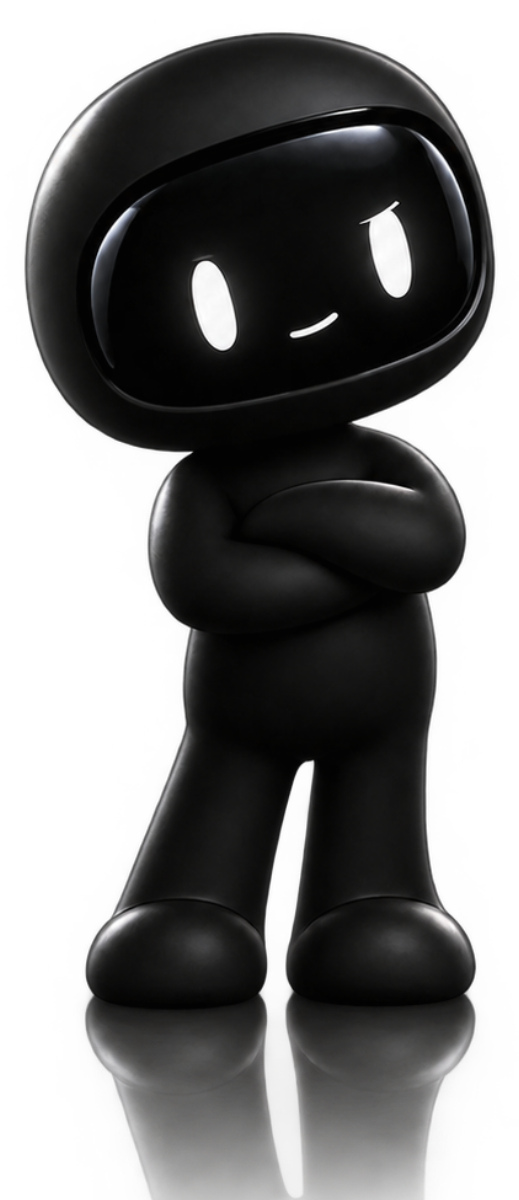
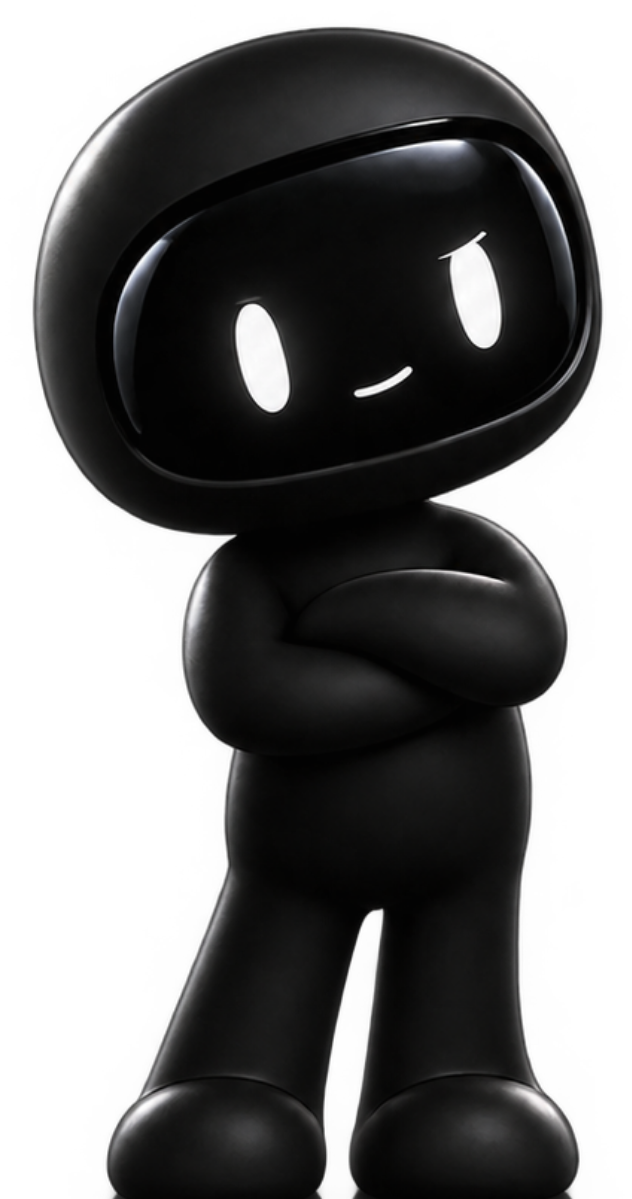
Actually cut the reflections - four of six still had a stub
The last commit claimed to have removed them and removed them from one. Four
of the six shipped with a pale stub under the feet, which is what Brandon
was pointing at when he asked about "all the other ones" - it is clearest on
the slumped pose at the psychology section.

The detection was backwards. "Last row containing a bright pixel" sounds
right, because the body carries specular highlights and a reflection is
dimmer - but the brightest thing in these renders is the reflection DIRECTLY
under his feet, the specular hit on the glossy floor. So the search sailed
past his feet and stopped at the bottom of the reflection, keeping the
brightest part of the thing it was meant to remove.

What works is the opposite: scan mean brightness down the lower half and
take the DARKEST row. The contact point is a shadow line, so it is a clean
minimum with the body above and the reflection brightening away below - on
the slump render, brightness bottoms out at y941 and climbs to 224 beneath
it. Verified by eye across all six afterwards rather than trusted twice.

The original idle render is the exception and keeps its earlier crop: its
reflection is opaque black rather than bright, so there is no minimum to
find, and it was the one that never had a stub.

Every scale recomputed against the new canvases, and both clip fractions
with them - the leaning arm moves to 53.1% and the crossed arms to 56.8%,
because cutting real height off the bottom changes where everything sits as
[…]

diff --git a/src/pages/Sales.tsx b/src/pages/Sales.tsx
@@ -719,10 +719,10 @@ export default function Sales() {
               <div
                 aria-hidden="true"
                 className="pointer-events-none absolute right-3 sm:right-5 overflow-hidden
-                  -top-[86px] h-[86px] sm:-top-[112px] sm:h-[112px]"
+                  -top-[84px] h-[84px] sm:-top-[110px] sm:h-[110px]"
               >
                 {/*
-                  The window is 47.8% of his height, which is where the
+                  The window is 56.8% of his height, which is where the
                   underside of his crossed arms sits - so the card's edge
                   lands under the arms rather than through them. It shows his
                   head AND his crossed arms, which is
@@ -875,8 +875,8 @@ export default function Sales() {
             objection: he is behind the edge rather than pasted over it.
 
             The window height is not a look-right guess - it is measured. The
-            underside of his propped arm sits at 46.5% of his height in the
-            render, so the window is 46.5% of whatever height he is given,
+            underside of his propped arm sits at 53.1% of his height in the
+            render, so the window is 53.1% of whatever height he is given,
             which puts the card's edge exactly where his arm comes down. Cut
             lower and the arm rests on nothing, which is what a taller window
             did here and what Brandon spotted immediately.
@@ -885,7 +885,7 @@ export default function Sales() {
             <div
               aria-hidden="true"
               className="pointer-events-none absolute left-4 sm:left-6 overflow-hidden
-                -top-[79px] h-[79px] sm:-top-[104px] sm:h-[104px]"
+                -top-[77px] h-[77px] sm:-top-[101px] sm:h-[101px]"
             >
               <Mascot pose="lean" height={120} className="sm:hidden" />
               <Mascot pose="lean" height={158} className="hidden sm:block" />

diff --git a/src/components/shared/Mascot.tsx b/src/components/shared/Mascot.tsx
@@ -31,17 +31,17 @@ import mascotSlump from '../../assets/mascot-slump.png';
 */
 const POSES = {
   idle:    { src: mascotIdle,    scale: 1.000 },  /* head 56.3% of canvas */
-  wave:    { src: mascotWave,    scale: 0.961 },  /* head 58.6% */
-  present: { src: mascotPresent, scale: 1.246 },  /* head 45.2% */
-  arms:    { src: mascotArms,    scale: 1.449 },  /* head 38.8% */
-  lean:    { src: mascotLean,    scale: 1.417 },  /* head 39.7% */
+  wave:    { src: mascotWave,    scale: 0.904 },  /* head 62.2% */
+  present: { src: mascotPresent, scale: 1.078 },  /* head 52.2% */
+  arms:    { src: mascotArms,    scale: 1.192 },  /* head 47.2% */
+  lean:    { src: mascotLean,    scale: 1.210 },  /* head 46.5% */
   /*
     Slumped. The only pose where the smile is gone - the render has a flat
     line instead - so it is the one to keep away from anything selling. It
     belongs where somebody has just had a bad one: a stopped-out trade, a red
     week, an empty journal after a loss.
   */
-  slump:   { src: mascotSlump,   scale: 1.496 },  /* head 37.6% */
+  slump:   { src: mascotSlump,   scale: 1.166 },  /* head 48.2% */
 } as const;
 
 export type MascotPose = keyof typeof POSES;
